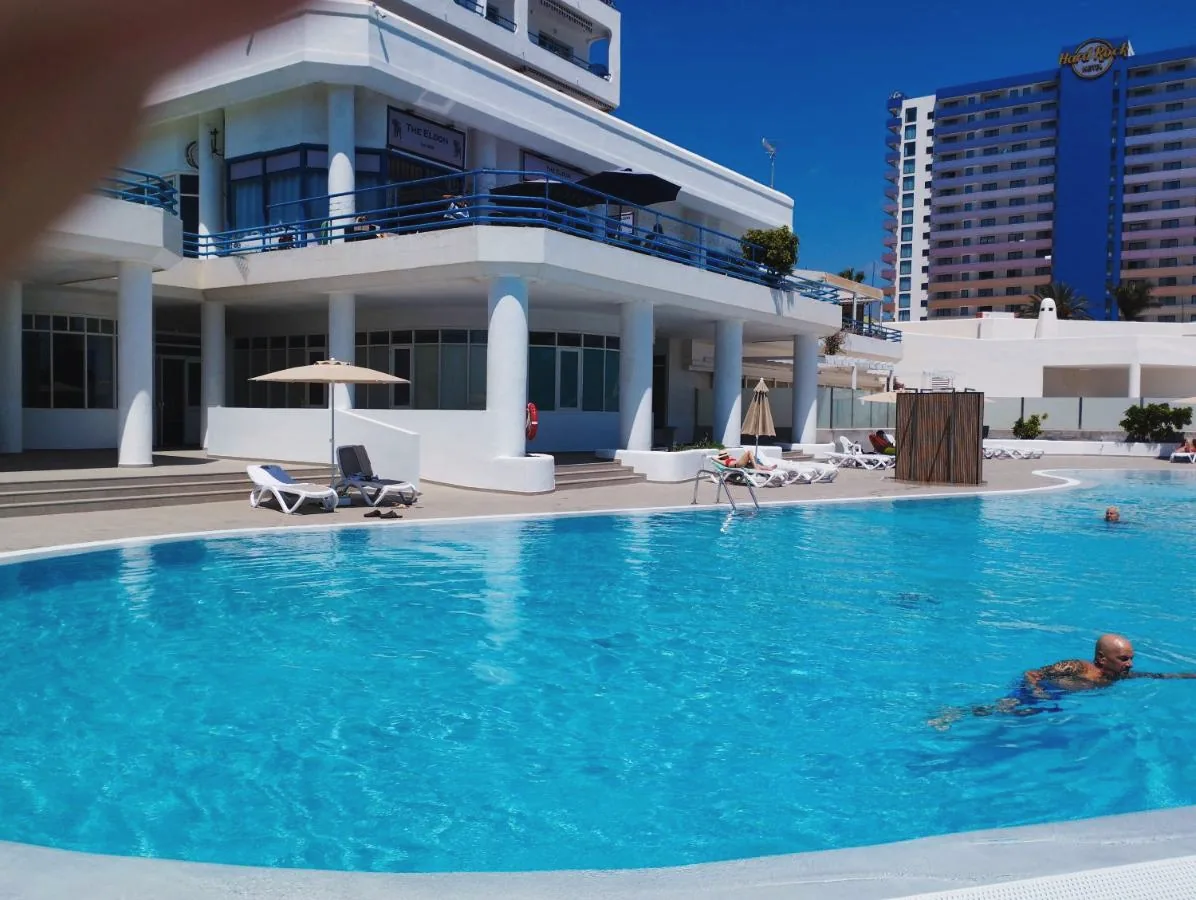
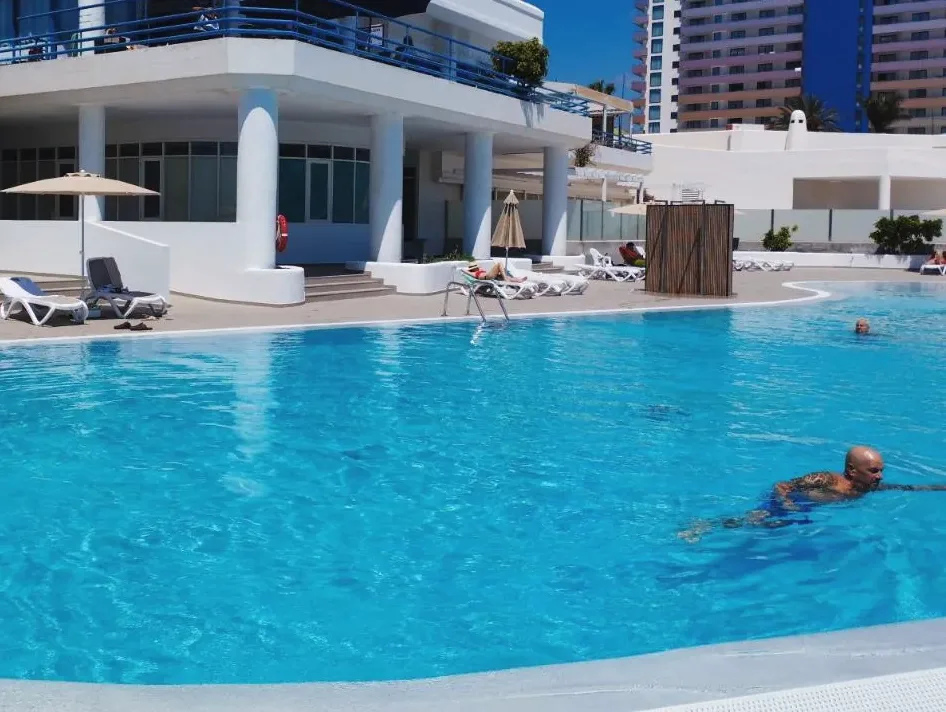
v2: gold night CTA, formal German, translated quotes, 2 adults preset, phone map labels, pool photo crop

diff --git a/v2/index.html b/v2/index.html
@@ -29,7 +29,7 @@
     --day-surface: #e8e2d7; --dusk-surface: #18212d;
     --day-ink: #14202b;     --dusk-ink: #f2ece3;
     --day-soft: #59636d;    --dusk-soft: #b2aba2;
-    --day-accent: #1f4fa3;  --dusk-accent: #a9c0f5;
+    --day-accent: #1f4fa3;  --dusk-accent: #f2a65a;
     --day-aink: #f6f4ef;    --dusk-aink: #0e141c;
     --sc-canvas:  color-mix(in oklab, var(--dusk-canvas) var(--d), var(--day-canvas));
     --sc-surface: color-mix(in oklab, var(--dusk-surface) var(--d), var(--day-surface));
@@ -52,7 +52,7 @@
   a { color: inherit; }
   .skip:focus-visible { position: fixed !important; left: 1rem; top: 1rem; width: auto; height: auto; clip: auto; z-index: 100; padding: .7rem 1rem; background: var(--sc-canvas); color: var(--sc-ink); border-radius: 6px; }
   .vh { position: absolute !important; width: 1px; height: 1px; overflow: hidden; clip: rect(0 0 0 0); white-space: nowrap; }
-  .kick { display: block; font: 500 .72rem/1.2 var(--sc-font-text); letter-spacing: .2em; text-transform: uppercase; color: var(--sc-ink-soft); margin: 0 0 1.1rem; }
+  .kick { display: block; font: 500 .78rem/1.2 var(--sc-font-text); letter-spacing: .2em; text-transform: uppercase; color: var(--sc-ink-soft); margin: 0 0 1.1rem; }
   .kick time { letter-spacing: .12em; }
   .lede { font-size: 1.08rem; line-height: 1.65; color: var(--sc-ink-soft); max-width: 44ch; margin: 1.2rem 0 0; }
   .wrap { width: 100%; max-width: 76rem; margin-inline: auto; padding-inline: var(--sc-gutter); }
@@ -132,7 +132,7 @@
     .arrive .scrim-m { display: block; position: absolute; inset: auto 0 0 0; height: 72%; z-index: 4; pointer-events: none;
       background: linear-gradient(to top, rgb(14 20 28 / .96) 0%, rgb(14 20 28 / .9) 58%, rgb(14 20 28 / 0) 100%); }
     .arrive .then { right: var(--sc-gutter); top: 5.5rem; }
-    .arrive .then-scrim { width: 100%; height: 50%; background: linear-gradient(to bottom, rgb(6 18 48 / .78), rgb(6 18 48 / .35) 55%, transparent); }
+    .arrive .then-scrim { width: 100%; height: 50%; background: linear-gradient(to bottom, rgb(6 18 48 / .84), rgb(6 18 48 / .45) 60%, transparent); }
   }
 
   /* ================= 2 · view (pan) */
@@ -174,7 +174,7 @@
   .zone figcaption { font-size: .9rem; line-height: 1.55; color: var(--sc-ink-soft); margin-top: .8rem; max-width: 46ch; }
   .facts { display: grid; grid-template-columns: repeat(4, 1fr); gap: 0 2rem; margin: clamp(3rem, 8vh, 5rem) 0 0; padding: 0; list-style: none; border-top: 1px solid var(--sc-hairline); }
   .facts li { padding: 1.1rem 0; border-bottom: 1px solid var(--sc-hairline); font-size: .95rem; line-height: 1.45; }
-  .facts b { display: block; font: 500 .7rem/1 var(--sc-font-text); letter-spacing: .18em; text-transform: uppercase; color: var(--sc-ink-soft); margin-bottom: .5rem; }
+  .facts b { display: block; font: 500 .78rem/1 var(--sc-font-text); letter-spacing: .16em; text-transform: uppercase; color: var(--sc-ink-soft); margin-bottom: .5rem; }
   @media (max-width: 860px) {
     .studio .head { grid-template-columns: 1fr; }
     .zone--a, .zone--b, .zone--c { grid-column: 1 / -1; margin-top: 0; }
@@ -190,7 +190,7 @@
   .down .p1 { grid-column: 6 / span 7; margin: 0; }
   .down .p2 { grid-column: 5 / span 4; margin: -14% 0 0; position: relative; z-index: 1; }
   .down figure img { width: 100%; height: auto; display: block; border-radius: var(--r); }
-  .down .p2 img { box-shadow: 0 24px 50px -24px rgb(20 32 43 / .55); outline: 8px solid var(--sc-canvas); }
+  .down .p2 img { outline: 8px solid var(--sc-canvas); box-shadow: 0 0 0 9px var(--sc-hairline); }
   .down figcaption { font-size: .85rem; color: var(--sc-ink-soft); margin-top: .6rem; }
   @media (max-width: 860px) {
     .down .txt, .down .p1 { grid-column: 1 / -1; }
@@ -204,6 +204,8 @@
   .quote p { font: italic 400 clamp(1.6rem, 2.6vw, 2.4rem)/1.18 var(--sc-font-display); margin: 0; text-wrap: balance; }
   .quote:first-child { grid-row: span 2; }
   .quote:first-child p { font-size: clamp(2.2rem, 4.2vw, 4rem); line-height: 1.06; }
+  .quote p.tr, .quote:first-child p.tr { font-style: normal; font: 400 1rem/1.5 var(--sc-font-text); color: var(--sc-ink-soft); margin: .8rem 0 0; max-width: 44ch; }
+  .quote .tr:empty { display: none; }
   .quote footer { font-size: .82rem; letter-spacing: .04em; color: var(--sc-ink-soft); margin-top: 1rem; }
   .guests .more { margin-top: 2.5rem; font-size: .95rem; }
   @media (max-width: 860px) { .quotes { grid-template-columns: 1fr; } .quote:first-child { grid-row: auto; } }
@@ -239,7 +241,7 @@
   .map figcaption { position: absolute; right: .9rem; bottom: .7rem; font-size: .72rem; color: #4c5a63; }
   .around .note { margin-top: 1.6rem; font-size: .95rem; line-height: 1.6; max-width: 52ch; }
   .around .fine { font-size: .8rem; color: var(--sc-ink-soft); margin-top: .8rem; }
-  @media (max-width: 860px) { .around .grid { grid-template-columns: 1fr; } .map { position: relative; top: 0; aspect-ratio: 400 / 330; } .map .lab { font-size: 15px; } .map .lab--opt { display: none; } .map .lab--isle { font-size: 20px; } }
+  @media (max-width: 860px) { .around .grid { grid-template-columns: 1fr; } .map { position: relative; top: 0; aspect-ratio: 400 / 330; } .map .lab { font-size: 15px; } .map .lab--isle { font-size: 20px; } }
 
   /* ================= 7 · sunset */
   .sunset [data-sc-stage] { background: #0e141c; }
@@ -349,7 +351,7 @@
           <a class="btn btn--line js-wa" href="https://wa.me/34602527760" rel="noopener"><svg viewBox="0 0 24 24" aria-hidden="true"><path fill="currentColor" d="M12 2a10 10 0 0 0-8.6 15.1L2 22l5-1.3A10 10 0 1 0 12 2Zm0 18.2a8.2 8.2 0 0 1-4.2-1.2l-.3-.2-3 .8.8-2.9-.2-.3A8.2 8.2 0 1 1 12 20.2Zm4.5-6.1c-.2-.1-1.5-.7-1.7-.8s-.4-.1-.6.1-.7.8-.8 1-.3.2-.5.1a6.7 6.7 0 0 1-3.3-2.9c-.2-.4.2-.4.7-1.3.1-.2 0-.3 0-.4l-.8-1.8c-.2-.5-.4-.4-.6-.4h-.5a1 1 0 0 0-.7.3 3 3 0 0 0-.9 2.2 5.2 5.2 0 0 0 1.1 2.7 11.9 11.9 0 0 0 4.5 4c1.7.7 2.4.8 3.2.7.5-.1 1.5-.6 1.8-1.2s.2-1.1.1-1.2-.2-.2-.4-.3Z"/></svg><span data-i18n="wa">Message us on WhatsApp</span></a>
         </div>
       </div>
-      <div class="then-scrim" aria-hidden="true" data-sc-cue="0.66 1 0.2 0"></div>
+      <div class="then-scrim" aria-hidden="true" data-sc-cue="0.6 1 0.1 0"></div>
       <div class="sc-copy then" data-sc-cue="0.68 0.98 0.18 0.1">
         <p data-i18n-html="fromSofa">This is the view <em>from the sofa.</em></p>
       </div>
@@ -455,7 +457,7 @@
         <p class="lede" data-i18n="downP">The Paraíso del Sur pool, refurbished in 2026, with loungers and parasols round it. The building also has a massage centre with some spa facilities.</p>
       </div>
       <figure class="p1"><img src="assets/v2/pool.webp" width="1280" height="853" alt="The large pool at Paraíso del Sur with loungers and parasols under a blue sky." data-i18n-alt="altPool" loading="lazy" decoding="async"></figure>
-      <figure class="p2"><img src="assets/v2/pool2.webp" width="1280" height="853" alt="The pool with the building's terraces behind it." data-i18n-alt="altPool2" loading="lazy" decoding="async"></figure>
+      <figure class="p2"><img src="assets/v2/pool2.webp" width="946" height="712" alt="The pool with the building's terraces behind it." data-i18n-alt="altPool2" loading="lazy" decoding="async"></figure>
     </div>
   </section>
 
@@ -464,9 +466,9 @@
     <div class="wrap">
       <h2 class="kick" data-i18n="kGuests">What guests wrote</h2>
       <div class="quotes" data-sc-in data-sc-stagger="80">
-        <blockquote class="quote" lang="en"><p>“The view from the balcony is absolutely stunning and worth the stay in itself.”</p><footer data-i18n="q1f">Guest review on Booking.com · June 2026</footer></blockquote>
-        <blockquote class="quote" lang="en"><p>“Nice size balcony with amazing views of the sunset in the evening.”</p><footer data-i18n="q2f">Guest review on Booking.com · February 2025</footer></blockquote>
-        <blockquote class="quote" lang="en"><p>“Beautiful view, cozy and beautiful studio with a wonderful hostess who responded to messages immediately!”</p><footer data-i18n="q3f">Guest review on Booking.com · September 2025</footer></blockquote>
+        <blockquote class="quote" lang="en"><p>“The view from the balcony is absolutely stunning and worth the stay in itself.”</p><p class="tr" data-i18n="q1t"></p><footer data-i18n="q1f">Guest review on Booking.com · June 2026</footer></blockquote>
+        <blockquote class="quote" lang="en"><p>“Nice size balcony with amazing views of the sunset in the evening.”</p><p class="tr" data-i18n="q2t"></p><footer data-i18n="q2f">Guest review on Booking.com · February 2025</footer></blockquote>
+        <blockquote class="quote" lang="en"><p>“Beautiful view, cozy and beautiful studio with a wonderful hostess who responded to messages immediately!”</p><p class="tr" data-i18n="q3t"></p><footer data-i18n="q3f">Guest review on Booking.com · September 2025</footer></blockquote>
       </div>
       <p class="more"><a class="textlink js-booking" href="https://www.booking.com/hotel/es/studio-joanna-1206.en-gb.html#tab-reviews" rel="noopener" data-i18n="reviewsAll">Read all the reviews on Booking.com</a></p>
     </div>
@@ -567,6 +569,7 @@
 
   var T = {
     en: {
+      q1t: '', q2t: '', q3t: '',
       skip: 'Skip to booking', book: 'Check dates on Booking', wa: 'Message us on WhatsApp',
       waText: "Hi! I'm interested in the Ocean View Studio in Playa Paraíso. Are these dates free: ",
       nView: 'The view', nStudio: 'The studio', nGuests: 'Guests', nAround: 'Location',
@@ -609,6 +612,7 @@
       bookingSuffix: 'en-gb.html'
     },
     es: {
+      q1t: 'Traducido: «La vista desde el balcón es absolutamente impresionante y por sí sola merece la estancia».', q2t: 'Traducido: «Un balcón de buen tamaño con vistas increíbles a la puesta de sol por la tarde».', q3t: 'Traducido: «Vista preciosa, un estudio acogedor y bonito, y una anfitriona estupenda que respondía a los mensajes al momento».',
       skip: 'Ir a reservar', book: 'Ver fechas en Booking', wa: 'Escríbenos por WhatsApp',
       waText: '¡Hola! Me interesa el Ocean View Studio en Playa Paraíso. ¿Están libres estas fechas?: ',
       nView: 'La vista', nStudio: 'El estudio', nGuests: 'Huéspedes', nAround: 'Ubicación',
@@ -651,7 +655,8 @@
       bookingSuffix: 'es.html'
     },
     de: {
-      skip: 'Zur Buchung', book: 'Termine auf Booking', wa: 'Schreib uns auf WhatsApp',
+      q1t: 'Übersetzt: „Der Blick vom Balkon ist absolut atemberaubend und allein schon den Aufenthalt wert.“', q2t: 'Übersetzt: „Ein schön großer Balkon mit herrlichem Blick auf den Sonnenuntergang am Abend.“', q3t: 'Übersetzt: „Schöner Blick, ein gemütliches, hübsches Studio und eine wunderbare Gastgeberin, die sofort auf Nachrichten geantwortet hat.“',
+      skip: 'Zur Buchung', book: 'Verfügbarkeit auf Booking', wa: 'Schreiben Sie uns auf WhatsApp',
       waText: 'Hallo! Ich interessiere mich für das Ocean View Studio in Playa Paraíso. Sind diese Daten frei: ',
       nView: 'Der Blick', nStudio: 'Das Studio', nGuests: 'Gäste', nAround: 'Lage',
       h1: 'Der Atlantik, aus dem <em>12. Stock.</em>',
@@ -673,19 +678,19 @@
       downP: 'Der Pool von Paraíso del Sur, 2026 renoviert, mit Liegen und Sonnenschirmen. Im Gebäude gibt es außerdem ein Massagezentrum mit etwas Spa.',
       kGuests: 'Was Gäste schreiben', q1f: 'Gästebewertung auf Booking.com · Juni 2026', q2f: 'Gästebewertung auf Booking.com · Februar 2025', q3f: 'Gästebewertung auf Booking.com · September 2025',
       reviewsAll: 'Alle Bewertungen auf Booking.com lesen',
-      kAround: 'Umgebung', aroundH: 'Wo <em>du bist</em>',
+      kAround: 'Umgebung', aroundH: 'Wo Sie <em>wohnen</em>',
       aroundP: 'Playa Paraíso liegt an der ruhigen Südwestküste Teneriffas, zwischen Costa Adeje und den Klippen von Los Gigantes.',
       pBeach: 'Zwei kleine Strände', pBeachT: '5 Min. zu Fuß', pAdeje: 'Strände der Costa Adeje', pAdejeT: '15 Min. mit dem Auto', pCaletaT: '15 Min. mit dem Auto',
       pCristT: '20 Min. mit dem Auto', pGigT: '25 Min. mit dem Auto', pAir: 'Flughafen Teneriffa Süd', pAirT: '25 Min. mit dem Auto', pTeide: 'Teide-Seilbahn', pTeideT: '1 Std. mit dem Auto',
       aroundFine: 'Ungefähre Zeiten ohne Verkehr, laut OpenStreetMap.',
       outNote: '<b>Unser eigener Reiseführer ist in Arbeit:</b> wo wir essen, schwimmen und mit Freunden hingehen. Sobald er fertig ist, öffnet ihn ein QR-Code im Studio.',
       tonight: 'Heute Abend geht die Sonne in Playa Paraíso unter um',
-      sunH1: 'Scroll weiter. <em>Du lässt sie untergehen.</em>', sunH2: 'Jeden Abend, <em>von deinem Balkon.</em>',
+      sunH1: 'Scrollen Sie weiter. <em>Sie lassen die Sonne untergehen.</em>', sunH2: 'Jeden Abend, <em>von Ihrem Balkon.</em>',
       sunP: 'Jede Woche versinkt die Sonne ein Stück weiter entlang des Horizonts im Meer, im Frühling und Spätsommer hinter La Gomera.',
       realK: 'Und dieser ist echt', sunH3: 'Fotografiert <em>vom Balkon.</em>',
       credit: 'Bis zum Foto: eine Illustration auf unserem Tagesfoto. Sonnenstand und Uhrzeit sind für heute berechnet.',
-      kBook: 'Buchen', bookH: 'Dein Balkon, <em>an jedem Abend.</em>',
-      bookP: 'Preise und freie Termine auf Booking.com, oder schreib uns vorher auf WhatsApp, wenn du etwas fragen möchtest.',
+      kBook: 'Buchen', bookH: 'Ihr Balkon, <em>an jedem Abend.</em>',
+      bookP: 'Preise und freie Termine auf Booking.com, oder schreiben Sie uns vorher auf WhatsApp, wenn Sie etwas fragen möchten.',
       r1: 'Nur Erwachsene (21+)', r2: 'Bis zu 2 Gäste', r3: 'Self-Check-in ab 15:00 Uhr', r4: 'Preise auf Booking.com', r5: 'Rauchen nur auf dem Balkon',
       licence: 'Lizenznummer',
       map: { gomera: 'La Gomera', sea: 'Atlantik', flat: 'Ocean View Studio', cristianos: 'Los Cristianos', gigantes: 'Los Gigantes', caleta: 'La Caleta', fanabe: 'Costa Adeje', airport: 'Flughafen (TFS)', cablecar: 'Teide' },
@@ -734,8 +739,9 @@
       el.dataset.alt = v; el.setAttribute('aria-label', v);
       if (el.getAttribute('aria-pressed') === 'true') { var z = el.closest('[data-zone]'); if (z) z.querySelector('.zone__frame > img').alt = v; }
     });
-    document.querySelectorAll('.js-booking').forEach(function (a) { a.href = BOOK + t.bookingSuffix + (a.href.indexOf('#tab-reviews') > -1 ? '#tab-reviews' : ''); });
+    document.querySelectorAll('.js-booking').forEach(function (a) { a.href = BOOK + t.bookingSuffix + '?group_adults=2&group_children=0&no_rooms=1' + (a.href.indexOf('#tab-reviews') > -1 ? '#tab-reviews' : ''); });
     document.querySelectorAll('.js-wa').forEach(function (a) { a.href = WA + encodeURIComponent(t.waText); });
+    document.querySelectorAll('.quote .tr').forEach(function (el) { el.lang = l; });
     document.querySelectorAll('.langs button').forEach(function (b) { b.setAttribute('aria-pressed', String(b.dataset.lang === l)); });
     drawMap();
     try { localStorage.setItem('ovs-lang', l); } catch (e) {}
@@ -805,7 +811,7 @@
     var g = P('gomera'); h += '<text class="lab lab--isle" x="' + (g[0] - 40) + '" y="' + (g[1] + 6) + '">' + t.gomera + '</text>';
     h += '<text class="lab lab--sea" x="' + (innerWidth <= 860 ? 330 : 250) + '" y="' + (innerWidth <= 860 ? 560 : 560) + '">' + t.sea + '</text>';
     Object.keys(LABELS).forEach(function (k) {
-      var p = P(k), o = LABELS[k];
+      var p = P(k), o = (innerWidth <= 860 && k === 'airport') ? [8, 26, 'end'] : LABELS[k];
       h += '<circle class="dot" data-dot="' + k + '" cx="' + p[0] + '" cy="' + p[1] + '" r="5.5"/>';
       h += '<text class="lab' + (k === 'fanabe' || k === 'caleta' ? ' lab--opt' : '') + '" x="' + (p[0] + o[0]) + '" y="' + (p[1] + o[1]) + '" text-anchor="' + o[2] + '">' + t[k] + '</text>';
     });
